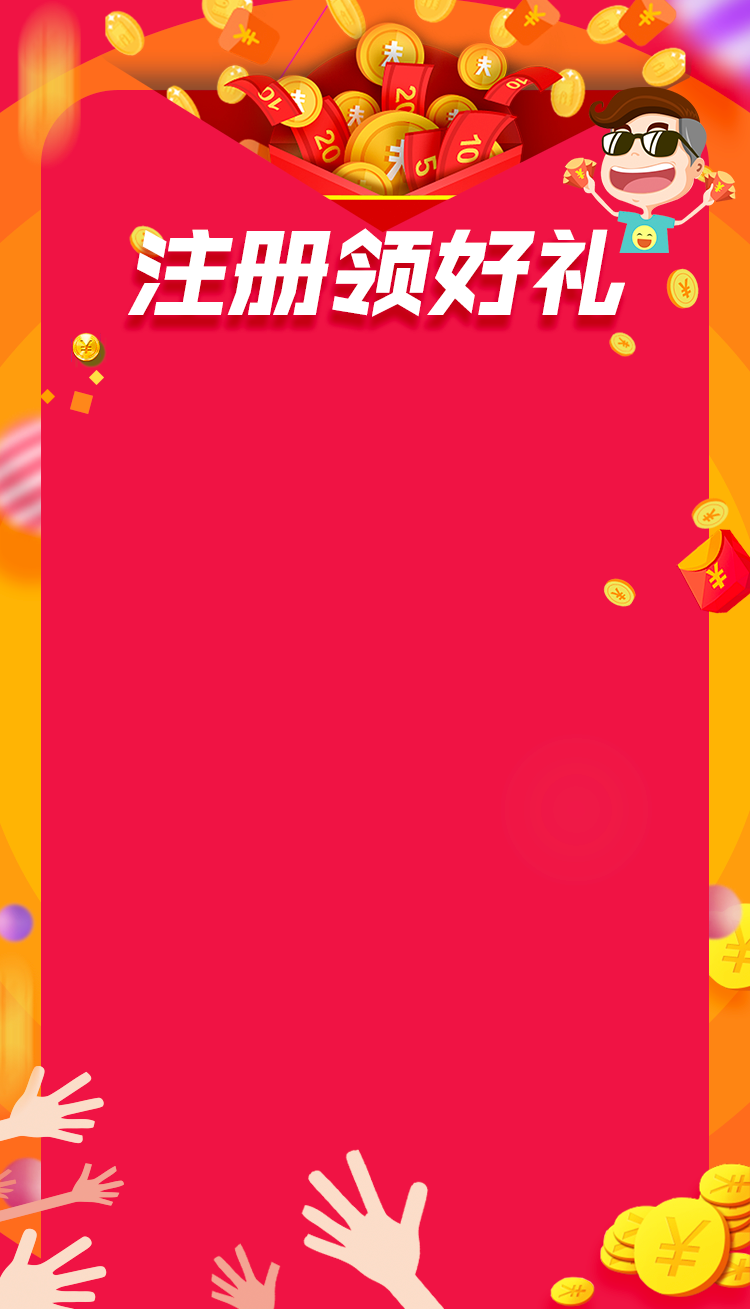
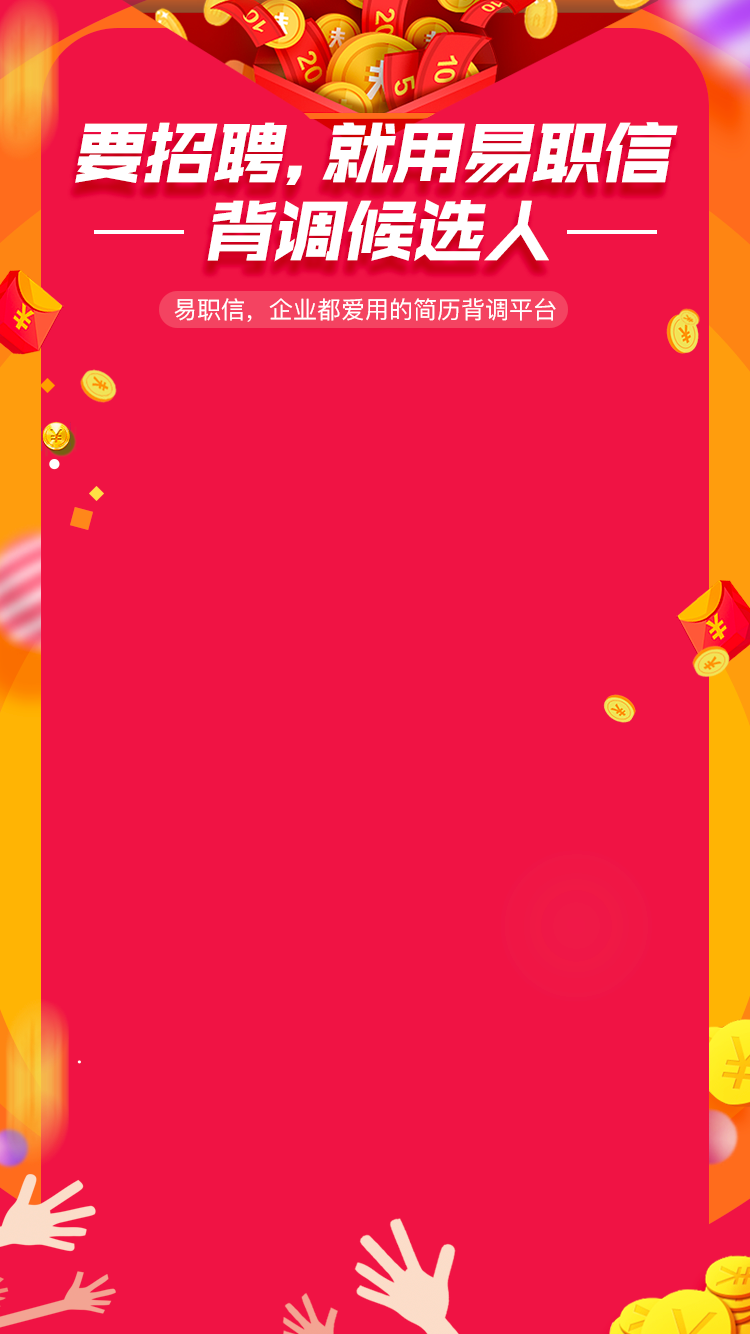
背景图更换

diff --git a/channel/css/index.less b/channel/css/index.less
@@ -8,22 +8,35 @@ ul,li{
 }
 .wrap{
     width: 100%;
-    height: 1309/@r;
+    height: 1344/@r;
     background: url(../img/channelBg.png)no-repeat;
-    background-size:750/@r 1309/@r;
+    background-size:750/@r 1344/@r;
     padding-top: 0.1px;
-
+}
+.header-top{
+  display: flex;
+  align-items: center;
+  justify-content: flex-end;
+  text-align: center;
+  margin-top: 340/@r;
+}
+.header-top>img{
+  width: 437/@r;
+}
+.header-top .header-p{
+  width: 152/@r;
+  margin-right: 20/@r;
 }
 .header{
     width:632/@r;
     height:214/@r;
     background-color: #fff;
     border-radius: 10/@r;
-    margin: 373/@r auto 46/@r;
+    margin: 0 auto 46/@r;
     box-shadow: 0 0 20/@r #d99805;
     padding-top: 0.1px;
-  
   }
+
   .header>h2{
     color: #fe9d23;
     font-size: 30/@r;

diff --git a/channel/css/index.css b/channel/css/index.css
@@ -8,17 +8,31 @@ li {
 }
 .wrap {
   width: 100%;
-  height: 26.18rem;
+  height: 26.88rem;
   background: url(../img/channelBg.png) no-repeat;
-  background-size: 15rem 26.18rem;
+  background-size: 15rem 26.88rem;
   padding-top: 0.1px;
+}
+.header-top {
+  display: flex;
+  align-items: center;
+  justify-content: flex-end;
+  text-align: center;
+  margin-top: 6.8rem;
+}
+.header-top > img {
+  width: 8.74rem;
+}
+.header-top .header-p {
+  width: 3.04rem;
+  margin-right: 0.4rem;
 }
 .header {
   width: 12.64rem;
   height: 4.28rem;
   background-color: #fff;
   border-radius: 0.2rem;
-  margin: 7.46rem auto 0.92rem;
+  margin: 0 auto 0.92rem;
   box-shadow: 0 0 0.4rem #d99805;
   padding-top: 0.1px;
 }

diff --git a/channel/index.html b/channel/index.html
@@ -21,6 +21,10 @@
 </head>
 <body>
     <div class="wrap">
+        <div class="header-top">
+            <img src="img/header-top.png" alt="">
+            <img class="header-p" src="img/header-p.png" alt="">
+        </div>
         <div class="header">
             <h2>活动介绍</h2>
             <p>
